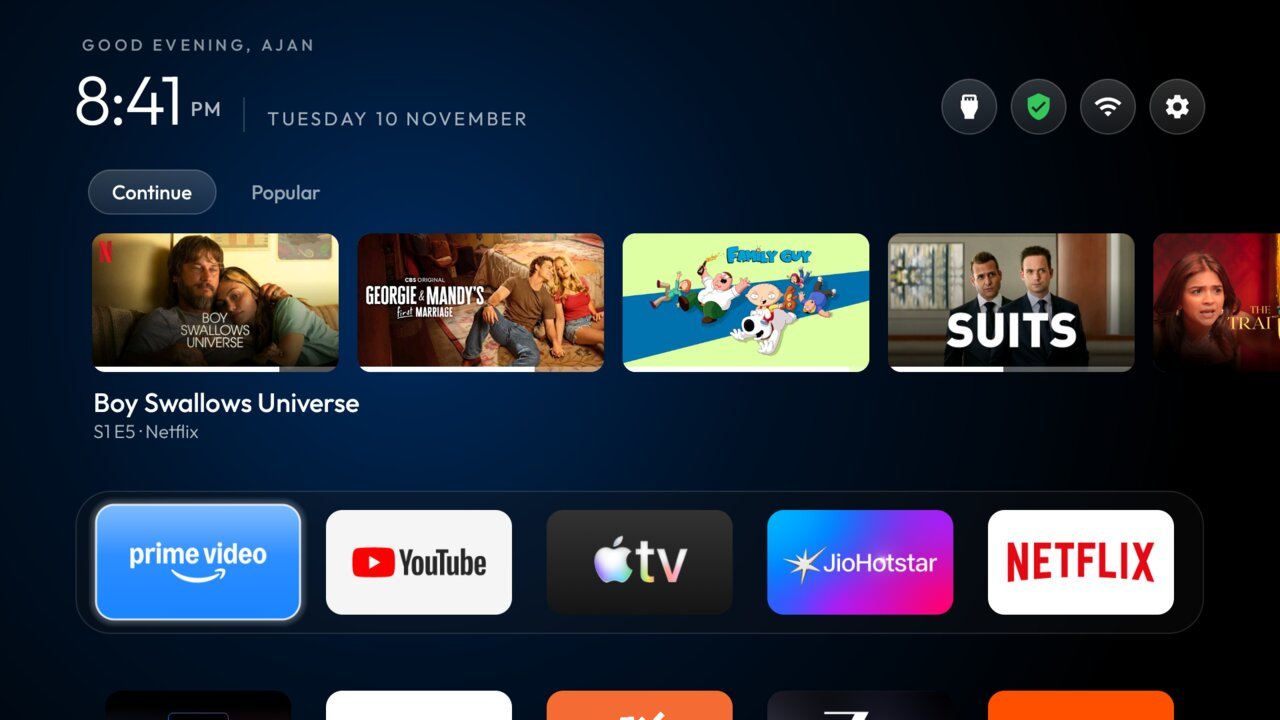
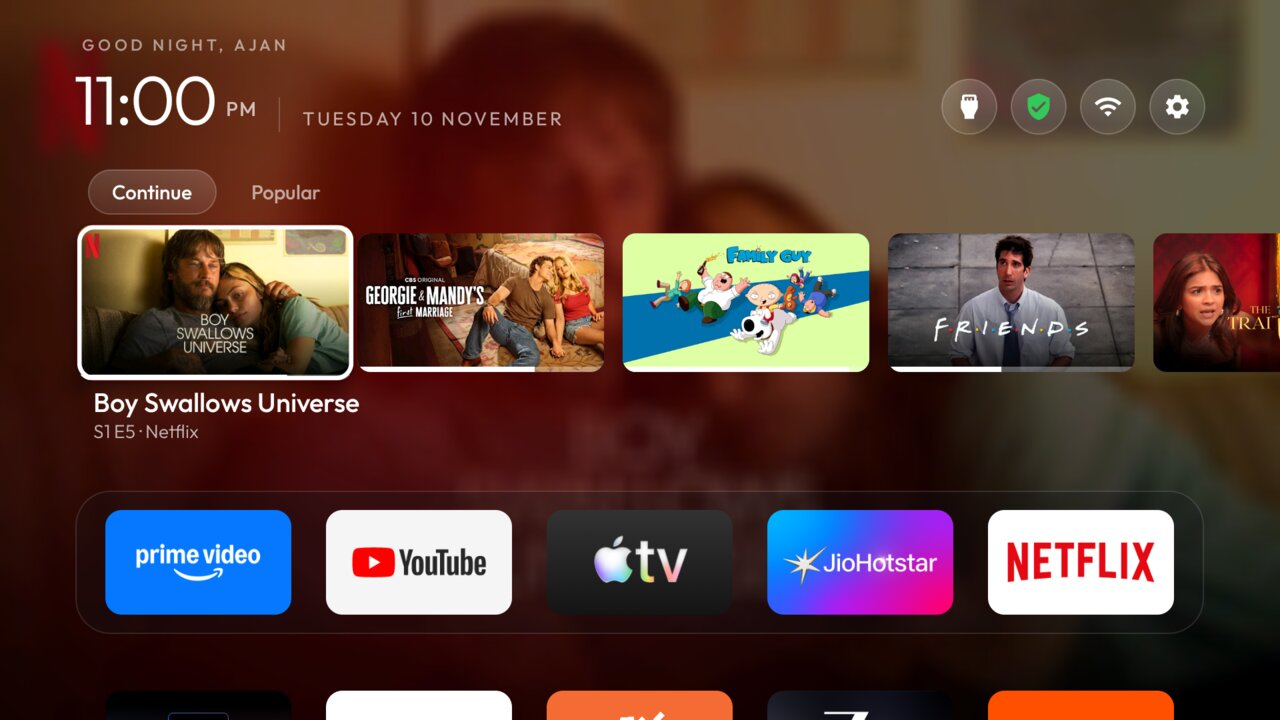
VARIANT.md: Home screenshot with a For You card focused and its blurred backdrop

diff --git a/VARIANT.md b/VARIANT.md
@@ -7,9 +7,11 @@ start with its [README](README.md) and [PROMPT.md](PROMPT.md).
 Tested on a **Sony BRAVIA VU31** (Google TV 14, build UKR1.240726.001, India). Other Google TV sets should work but
 haven't been tried.
 
-![Home on the Sony BRAVIA VU31: the greeting and clock, Inputs, the green Private DNS shield, Wi-Fi and Settings as round icons, the For You row on its Continue tab, and the dock](docs/variant/home.jpg)
+![Home on the Sony BRAVIA VU31 with the first Continue card focused: its artwork, softly blurred and darkened, fills the background behind the greeting and clock, Inputs, the green Private DNS shield, Wi-Fi and Settings, the For You row and the dock](docs/variant/home.jpg)
 
-*Home on the test TV, November 2026: the **For You** row on its Continue tab, with progress bars, the green **Private DNS shield** next to Wi-Fi, icon-only top buttons, and the dock without app titles.*
+*Home on the test TV, November 2026: the first **For You** card is focused, so its artwork fills the background,
+softly blurred and darkened. Also visible: the Continue tab with progress bars, the green **Private DNS shield**
+next to Wi-Fi, icon-only top buttons, and the dock without app titles.*
 
 ## What this variant adds
 
